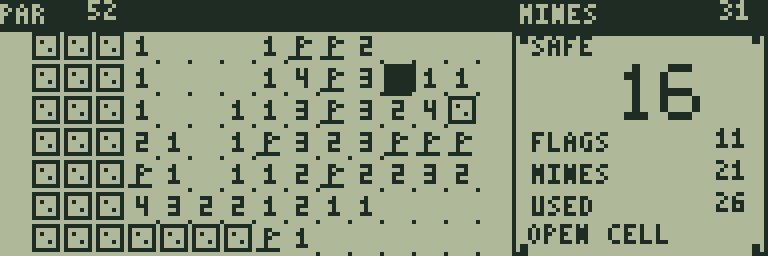
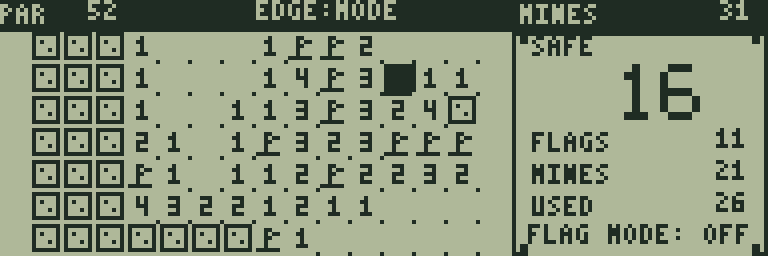
Improve MINE FIELD visual clarity

Changed region(s): [[0.3125, 0.0, 0.5312, 0.0938], [0.6875, 0.875, 0.875, 0.9688], [0.9062, 0.875, 0.9688, 0.9688]]

diff --git a/games/mine-field/generate.py b/games/mine-field/generate.py
@@ -32,4 +32,4 @@ for n in range(15):
   if n==13:b.rect(0,0,8,8)
  elif n==14:b.line(0,0,6,6);b.line(6,0,0,6)
  sprites.append(b)
-assets(Path(__file__).parent,'MINE FIELD','mine-field',14,7,1,1,sprites,40,asm_bytes('mine_links',links)+asm_bytes('mine_totals',[len(s['initial']['mines']) for s in levels])+asm_bytes('mine_starts',[s['initial']['start'] for s in levels])+level_records([[sum(1<<bit for bit in range(8) if byte*8+bit in s['initial']['mines']) for byte in range(13)] for s in levels])+challenge_data(root,levels,14,1,1,7),stat='LEFT',aux=('FLAG MODE','RESET'))
+assets(Path(__file__).parent,'MINE FIELD','mine-field',14,7,1,1,sprites,40,asm_bytes('mine_links',links)+'\n.section .runtime, data\n'+asm_bytes('mine_totals',[len(s['initial']['mines']) for s in levels])+asm_bytes('mine_starts',[s['initial']['start'] for s in levels])+'\n.section .data, data\n'+level_records([[sum(1<<bit for bit in range(8) if byte*8+bit in s['initial']['mines']) for byte in range(13)] for s in levels])+challenge_data(root,levels,14,1,1,7),stat='LEFT',aux=('FLAG MODE','RESET'))

diff --git a/games/mine-field/hud.py b/games/mine-field/hud.py
@@ -1,0 +1,7 @@
+# SPDX-License-Identifier: MIT
+"""A visible mode control in the existing seven-field dashboard."""
+from copy import deepcopy
+from hud_layouts import SPECS
+
+SPEC=deepcopy(SPECS['mine-field'])
+SPEC['status']['values']=['FLAG MODE: OFF','FLAG MODE: ON']

diff --git a/games/mine-field/README.md b/games/mine-field/README.md
@@ -12,7 +12,7 @@
 
 開始時に安全な領域が開きます。方向キーで選び、SPACEでマスを開きます。数字は隣接8マスの地雷数です。安全なマスをすべて開けばクリアです。追加目標は、最後の安全マスを開く前に、すべての地雷へ自分で旗を立てることです。クリア時の自動旗はありません。
 
-RETURNメニューの FLAG MODE で旗モードへ入り、SPACEで旗の設置・撤去、RETURNで開く操作へ戻ります。開いた数字の周囲に同数の旗があると、SPACEで周囲をまとめて開けます。誤った旗でまとめ開きをすると地雷を踏むことがあります。開く・旗を置く・旗を外す操作をそれぞれ1手と数えます。開始時の自動開放は0手です。規定手数は推理で安全を確認した手順が基準です。
+盤面の右端から右キー、または下端から下キーで、右下の **FLAG MODE** を選びます。SPACEで **ON / OFF** を切り替えると盤面へ戻ります。ONではSPACEで旗の設置・撤去、OFFではマスを開きます。切り替えずに戻るときは左または上キーです。現在のモードは右下に常時表示します。RETURNでも旗モードを解除できます。モード切替だけでは手数は増えません。開いた数字の周囲に同数の旗があると、SPACEで周囲をまとめて開けます。誤った旗でまとめ開きをすると地雷を踏むことがあります。開く・旗を置く・旗を外す操作をそれぞれ1手と数えます。開始時の自動開放は0手です。規定手数は推理で安全を確認した手順が基準です。
 
 ## ゲーム画面
 
